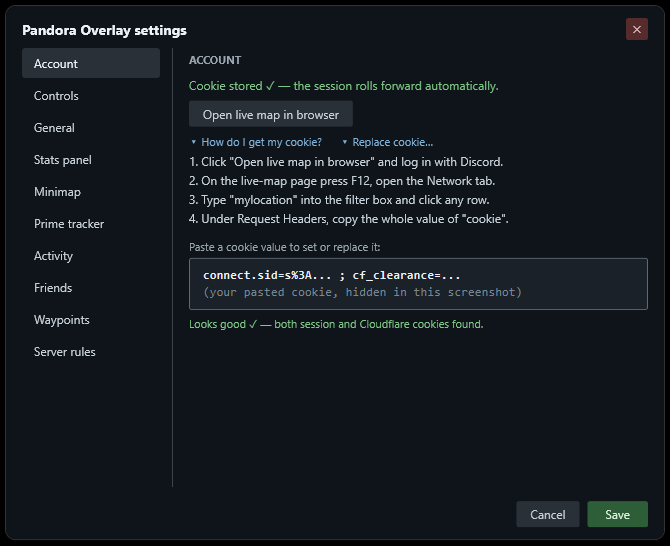
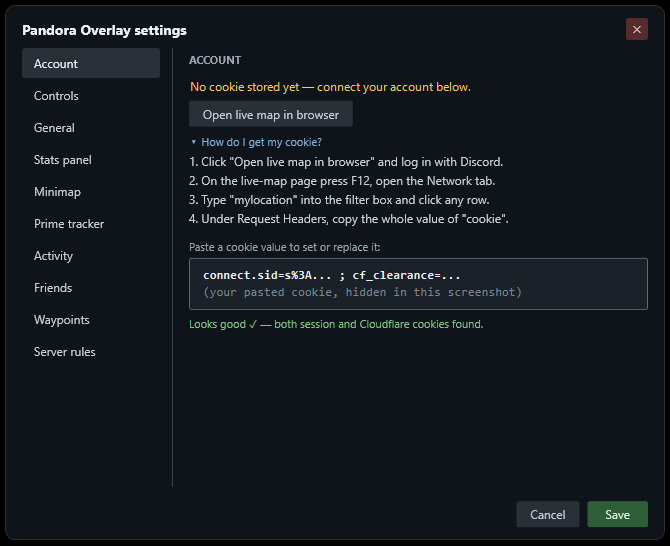
README: setup screenshots show the true first-run state (no cookie stored yet, no Replace link, Save disabled until a valid paste)

Changed region(s): [[0.2687, 0.1557, 0.7463, 0.1868], [0.5075, 0.2491, 0.6269, 0.2802]]

diff --git a/README.md b/README.md
@@ -48,7 +48,7 @@ The exe lands in `bin\Release\net8.0-windows\PandoraOverlay.exe`.
 
 1. Run `PandoraOverlay.exe` — the settings window opens automatically with the cookie walkthrough expanded.
 
-   ![The Settings dialog on the Account page: the "Open live map in browser" button, the four-step "How do I get my cookie?" walkthrough, and the empty paste box](docs/setup-settings.png)
+   ![The Settings dialog on first launch, Account page: the amber "No cookie stored yet" line, the "Open live map in browser" button, the four-step "How do I get my cookie?" walkthrough, the empty paste box with "Waiting for a pasted cookie…" under it, and Save still disabled](docs/setup-settings.png)
 
 2. Click **Open live map in browser** and log in with Discord.
 3. On the live-map page press F12 → Network tab → type `mylocation` into the filter → click any row.
@@ -56,7 +56,7 @@ The exe lands in `bin\Release\net8.0-windows\PandoraOverlay.exe`.
 
    ![The browser's DevTools on the live-map page with the four spots marked: 1 the Network tab, 2 "mylocation" typed into the filter, 3 a mylocation row selected, 4 the Cookie line under Request headers, its value hidden in this screenshot](docs/setup-devtools.png)
 
-   ![The Settings dialog after pasting: the paste box holding the cookie (hidden in this screenshot) and the green line "Looks good ✓ — both session and Cloudflare cookies found" above the Save button](docs/setup-pasted.png)
+   ![The Settings dialog after pasting: the paste box holding the cookie (hidden in this screenshot), the green line "Looks good ✓ — both session and Cloudflare cookies found", and Save now enabled](docs/setup-pasted.png)
 
    The cookie is your login: copy it straight from DevTools into the overlay and never post it or a screenshot of it anywhere.
 
